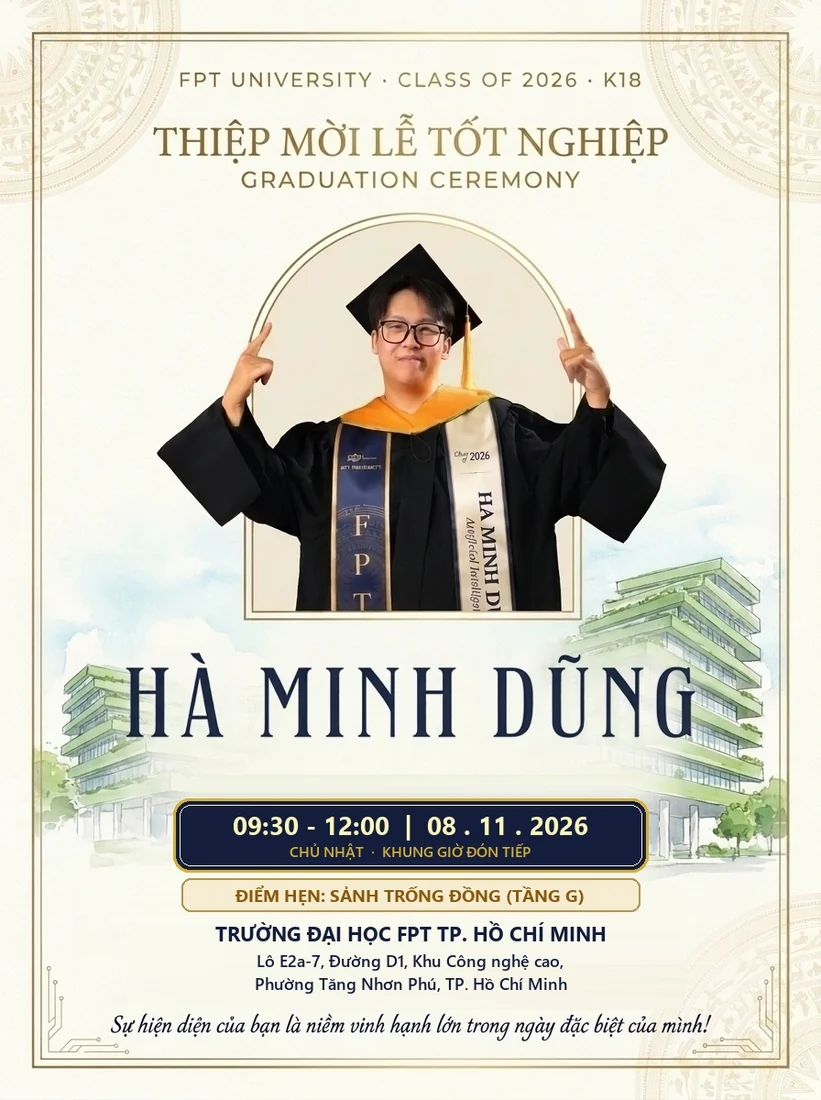
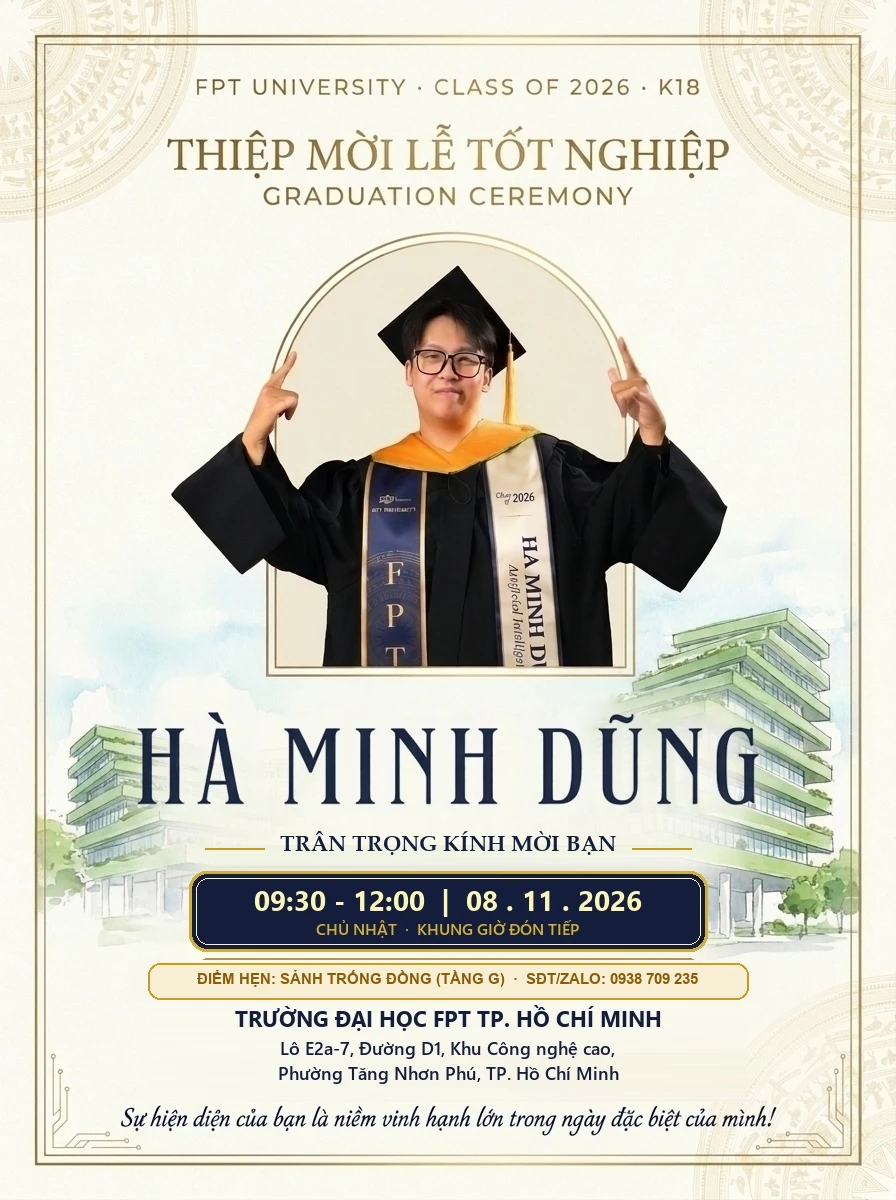
feat: add no-namebox card support and phone/zalo/messenger contact links

Changed region(s): [[0.1523, 0.7727, 0.8526, 0.8345], [0.3045, 0.68, 0.7004, 0.7109], [0.609, 0.8655, 0.6395, 0.8964]]

diff --git a/quan-ly-thiep.html b/quan-ly-thiep.html
@@ -179,10 +179,11 @@
           <div>
             <span class="text-[11px] font-mono-ai text-[#6EE7B7] uppercase block">✨ XEM TRƯỚC THIỆP CÁ NHÂN HÓA</span>
             <h3 class="font-serif-luxury text-xl font-bold text-[#E6C762]">
-              Thiệp Của: <span id="preview-guest-title" class="text-[#FAF6EE]">[ TÊN KHÁCH MỜI ]</span>
+              Thiệp Của: <span id="preview-guest-title" class="text-[#FAF6EE]">Thiệp Chung (Không ô tên)</span>
             </h3>
           </div>
-          <div class="flex gap-1.5">
+          <div class="flex gap-1.5 flex-wrap">
+            <button type="button" onclick="selectNoNameCard()" class="px-2.5 py-1 rounded-lg bg-[#1E2F5D] border border-[#D4AF37]/60 text-[#E6C762] text-xs font-bold cursor-pointer" title="Xem & tải thiệp chung không có ô tên">Thiệp K.Tên</button>
             <button type="button" onclick="previewPoseChange('card1')" id="btn-pose-1" class="px-2.5 py-1 rounded-lg bg-[#D4AF37] text-[#0F172A] text-xs font-bold cursor-pointer">Ảnh 1</button>
             <button type="button" onclick="previewPoseChange('card2')" id="btn-pose-2" class="px-2.5 py-1 rounded-lg bg-[#090F20] border border-[#D4AF37]/50 text-[#FAF6EE] text-xs font-bold cursor-pointer">Ảnh 2</button>
           </div>
@@ -306,7 +307,7 @@
     const CARD_ASSETS = { card1: "./assets/card1.webp", card2: "./assets/card2.webp" };
     const CARD_IMAGES = {};
     let currentPreviewPose = 'card1';
-    let currentPreviewName = '[ TÊN KHÁCH MỜI ]';
+    let currentPreviewName = '';
     let guestsCache = [];
     let wishesCache = [];
 
@@ -327,7 +328,14 @@
 
     function buildGuestUrl(name, pose) {
       const base = document.getElementById('base-url-input')?.value.trim() || detectDefaultInvitationUrl();
-      const cleanName = (name && name.trim()) ? name.trim() : '[ TÊN KHÁCH MỜI ]';
+      const cleanName = (name && name.trim() && name !== '[ TÊN KHÁCH MỜI ]') ? name.trim() : '';
+      if (!cleanName) {
+        if (pose === 'card2') {
+          const sep = base.includes('?') ? '&' : '?';
+          return `${base}${sep}pose=card2`;
+        }
+        return base;
+      }
       const sep = base.includes('?') ? '&' : '?';
       const poseQuery = (pose === 'card2') ? '&pose=card2' : '';
       return `${base}${sep}to=${encodeURIComponent(cleanName)}${poseQuery}`;
@@ -417,9 +425,15 @@
       renderGuestTable();
     }
 
+    function selectNoNameCard() {
+      const input = document.getElementById('guest-name-input');
+      if (input) input.value = '';
+      previewGuestCard('');
+    }
+
     function previewGuestCard(val) {
-      currentPreviewName = (val && val.trim()) ? val.trim() : '[ TÊN KHÁCH MỜI ]';
-      document.getElementById('preview-guest-title').textContent = currentPreviewName;
+      currentPreviewName = (val && val.trim()) ? val.trim() : '';
+      document.getElementById('preview-guest-title').textContent = currentPreviewName || 'Thiệp Chung (Không ô tên)';
       updateLiveLinkBar();
       renderPreviewCanvas();
     }
@@ -456,35 +470,51 @@
       ctx.clearRect(0, 0, canvas.width, canvas.height);
       ctx.drawImage(baseImg, 0, 0);
 
+      const hasName = Boolean(currentPreviewName && currentPreviewName.trim() && currentPreviewName !== '[ TÊN KHÁCH MỜI ]');
+      if (!hasName) return;
+
       const cx = canvas.width / 2;
-      ctx.fillStyle = '#FAF6EE';
-      ctx.fillRect(cx - 230, 766, 460, 34);
-      ctx.font = 'bold 21px "Plus Jakarta Sans", "Segoe UI", sans-serif';
-      ctx.fillStyle = '#141E3C';
-      ctx.textAlign = 'center';
-      ctx.textBaseline = 'middle';
-      ctx.fillText('TRÂN TRỌNG KÍNH MỜI BẠN', cx, 784);
+      const nameStr = currentPreviewName.trim();
+      const boxW = Math.min(740, Math.max(480, nameStr.length * 22 + 140));
+      const boxH = 60;
+      const boxX = cx - boxW / 2;
+      const boxY = 806;
 
-      const boxW = 540, boxH = 56, boxX = cx - boxW / 2, boxY = 806;
       ctx.save();
-      ctx.fillStyle = '#FAF6EE';
-      ctx.fillRect(boxX - 8, boxY - 3, boxW + 16, boxH + 6);
+      const r = 13;
+      ctx.beginPath();
+      ctx.moveTo(boxX + r, boxY);
+      ctx.lineTo(boxX + boxW - r, boxY);
+      ctx.quadraticCurveTo(boxX + boxW, boxY, boxX + boxW, boxY + r);
+      ctx.lineTo(boxX + boxW, boxY + boxH - r);
+      ctx.quadraticCurveTo(boxX + boxW, boxY + boxH, boxX + boxW - r, boxY + boxH);
+      ctx.lineTo(boxX + r, boxY + boxH);
+      ctx.quadraticCurveTo(boxX, boxY + boxH, boxX, boxY + boxH - r);
+      ctx.lineTo(boxX, boxY + r);
+      ctx.quadraticCurveTo(boxX, boxY, boxX + r, boxY);
+      ctx.closePath();
 
+      const grad = ctx.createLinearGradient(boxX, boxY, boxX, boxY + boxH);
+      grad.addColorStop(0, 'rgba(255, 253, 246, 0.98)');
+      grad.addColorStop(1, 'rgba(244, 234, 206, 0.98)');
+      ctx.fillStyle = grad;
+      ctx.fill();
+
+      ctx.lineWidth = 2.2;
       ctx.strokeStyle = '#C59B27';
-      ctx.lineWidth = 2;
-      ctx.strokeRect(boxX + 10, boxY + 2, boxW - 20, boxH - 4);
+      ctx.stroke();
 
-      ctx.fillStyle = 'rgba(253, 249, 240, 0.96)';
-      ctx.fillRect(boxX + 12, boxY + 4, boxW - 24, boxH - 8);
-
-      let fontSize = 27;
-      if (currentPreviewName.length > 22) fontSize = 22;
-      if (currentPreviewName.length > 30) fontSize = 18;
-      ctx.font = `bold ${fontSize}px "Cormorant Garamond", Georgia, serif`;
-      ctx.fillStyle = '#141E3C';
       ctx.textAlign = 'center';
-      ctx.textBaseline = 'middle';
-      ctx.fillText(currentPreviewName, cx, boxY + boxH / 2 + 1);
+      ctx.fillStyle = '#8A640F';
+      ctx.font = 'bold 12.5px "Segoe UI", Arial, sans-serif';
+      ctx.fillText('TRÂN TRỌNG KÍNH MỜI BẠN', cx, boxY + 19);
+
+      let fSize = 25;
+      if (nameStr.length > 28) fSize = 20;
+      else if (nameStr.length > 22) fSize = 22;
+      ctx.fillStyle = '#141E3C';
+      ctx.font = `bold ${fSize}px "Palatino Linotype", Georgia, "Times New Roman", serif`;
+      ctx.fillText(nameStr, cx, boxY + 48);
       ctx.restore();
     }
 
@@ -602,7 +632,7 @@
 
     function copyInviteMessage(name, pose) {
       const url = buildGuestUrl(name, pose);
-      const msg = `Trân trọng thân mời ${name} đến chung vui tại Lễ Tốt Nghiệp của Hà Minh Dũng (Zunzun) vào lúc 09:30 - 12:00 Chủ Nhật ngày 08.11.2026 tại Sảnh Trống Đồng - ĐH FPT TP.HCM!\n👉 Mở thiệp mời dành riêng cho ${name} tại đây nhé: ${url}`;
+      const msg = `Trân trọng thân mời ${name} đến chung vui tại Lễ Tốt Nghiệp của Hà Minh Dũng (Zunzun) vào lúc 09:30 - 12:00 Chủ Nhật ngày 08.11.2026 tại Sảnh Trống Đồng - ĐH FPT TP.HCM (SĐT/Zalo Dũng: 0938 709 235)!\n👉 Mở thiệp mời dành riêng cho ${name} tại đây nhé: ${url}`;
       copyText(msg, `💬 Đã copy lời mời + link của "${name}"!`);
     }
 

diff --git a/index.html b/index.html
@@ -328,6 +328,20 @@
             </div>
           </div>
         </div>
+
+        <!-- DIRECT CONTACT BAR: PHONE, ZALO, FACEBOOK MESSENGER -->
+        <div class="mt-3 pt-3 border-t border-[#D4AF37]/30 flex flex-wrap items-center justify-center gap-2 sm:gap-3 text-xs">
+          <span class="font-mono-ai text-[#E6C762] font-bold">📲 Liên hệ Dũng khi tới trường:</span>
+          <a href="tel:0938709235" class="inline-flex items-center gap-1.5 px-3 py-1.5 rounded-xl bg-[#0A1022] hover:bg-[#1E2F5D] border border-[#D4AF37]/60 text-[#FAF6EE] font-bold transition">
+            📞 0938 709 235
+          </a>
+          <a href="https://zalo.me/0938709235" target="_blank" rel="noopener noreferrer" class="inline-flex items-center gap-1.5 px-3 py-1.5 rounded-xl bg-[#0A1022] hover:bg-[#1E2F5D] border border-[#38BDF8]/60 text-[#7DD3FC] font-bold transition">
+            💬 Zalo: 0938 709 235
+          </a>
+          <a href="https://www.facebook.com/dung.haminh.161/" target="_blank" rel="noopener noreferrer" class="inline-flex items-center gap-1.5 px-3 py-1.5 rounded-xl bg-[#0A1022] hover:bg-[#1E2F5D] border border-[#60A5FA]/60 text-[#93C5FD] font-bold transition">
+            💙 Messenger / Facebook
+          </a>
+        </div>
       </div>
     </header>
 
@@ -622,9 +636,18 @@
               </div>
             </div>
 
-            <a href="https://maps.google.com/?q=Dai+hoc+FPT+TP+HCM+Lo+E2a-7+Duong+D1+Khu+Cong+Nghe+Cao" target="_blank" rel="noopener noreferrer" class="w-full py-2.5 px-4 rounded-xl gold-foil-surface text-[#141E3C] font-extrabold text-xs text-center shadow-lg hover:opacity-95 transition">
+            <a href="https://maps.google.com/?q=Dai+hoc+FPT+TP+HCM+Lo+E2a-7+Duong+D1+Khu+Cong+Nghe+Cao" target="_blank" rel="noopener noreferrer" class="w-full py-2.5 px-4 rounded-xl bg-[#D4AF37] hover:bg-[#E0BE4C] text-[#0F172A] font-extrabold text-xs text-center shadow-lg transition">
               🗺 Mở Google Maps Tới Trường ĐH FPT TP.HCM
             </a>
+
+            <div class="grid grid-cols-2 gap-2">
+              <a href="https://zalo.me/0938709235" target="_blank" rel="noopener noreferrer" class="py-2 px-3 rounded-xl bg-[#0A1022] hover:bg-[#1E2F5D] border border-[#D4AF37]/55 text-[#FAF6EE] font-bold text-xs text-center transition">
+                📞 Zalo: 0938 709 235
+              </a>
+              <a href="https://www.facebook.com/dung.haminh.161/" target="_blank" rel="noopener noreferrer" class="py-2 px-3 rounded-xl bg-[#0A1022] hover:bg-[#1E2F5D] border border-[#D4AF37]/55 text-[#FAF6EE] font-bold text-xs text-center transition">
+                💙 Nhắn Messenger
+              </a>
+            </div>
           </div>
         </div>
 
@@ -701,7 +724,7 @@
     const ASSETS = { card1: "./assets/card1.webp", card2: "./assets/card2.webp", map: "./assets/map-tang-g.webp" };
     const IMAGES = {};
     let currentPose = 'card1';
-    let guestName = '[ TÊN KHÁCH MỜI ]';
+    let guestName = '';
     let currentAct = 1;
     let warpFactor = 1;
 
@@ -750,13 +773,22 @@
     }
 
     function setLiveGuestName(val) {
-      guestName = (val && val.trim()) ? val.trim() : '[ TÊN KHÁCH MỜI ]';
+      guestName = (val && val.trim()) ? val.trim() : '';
       updateAllGuestNameSlots();
     }
 
     function updateAllGuestNameSlots() {
-      document.getElementById('intro-guest-name').textContent = guestName;
-      document.getElementById('stage-guest-name').textContent = guestName;
+      const introEl = document.getElementById('intro-guest-name');
+      const stageEl = document.getElementById('stage-guest-name');
+      const hasName = Boolean(guestName && guestName.trim() && guestName !== '[ TÊN KHÁCH MỜI ]');
+      if (introEl) {
+        introEl.textContent = hasName ? guestName : '';
+        introEl.style.display = hasName ? 'block' : 'none';
+      }
+      if (stageEl) {
+        stageEl.textContent = hasName ? guestName : '';
+        stageEl.style.display = hasName ? 'block' : 'none';
+      }
       renderCardCanvas();
     }
 
@@ -772,9 +804,11 @@
       ctx.clearRect(0, 0, canvas.width, canvas.height);
       ctx.drawImage(baseImg, 0, 0);
 
-      // 1. DEDICATED GUEST NAME SLOT (y = 806..866)
+      // 1. DEDICATED GUEST NAME SLOT (y = 806..866) — Only drawn when guestName is provided!
+      const hasName = Boolean(guestName && guestName.trim() && guestName !== '[ TÊN KHÁCH MỜI ]');
+      if (!hasName) return;
       const cx = canvas.width / 2; // 448
-      const nameStr = guestName || '[ TÊN KHÁCH MỜI ]';
+      const nameStr = guestName.trim();
       const boxW = Math.min(740, Math.max(480, nameStr.length * 22 + 140));
       const boxH = 60;
       const boxX = cx - boxW / 2;
@@ -1079,7 +1113,7 @@
 
       try {
         if (window.ZunzunDB) {
-          await window.ZunzunDB.sendWish(guestName, msg);
+          await window.ZunzunDB.sendWish(guestName || 'Khách mời (Thiệp chung)', msg);
         }
       } catch (e) {}
 
